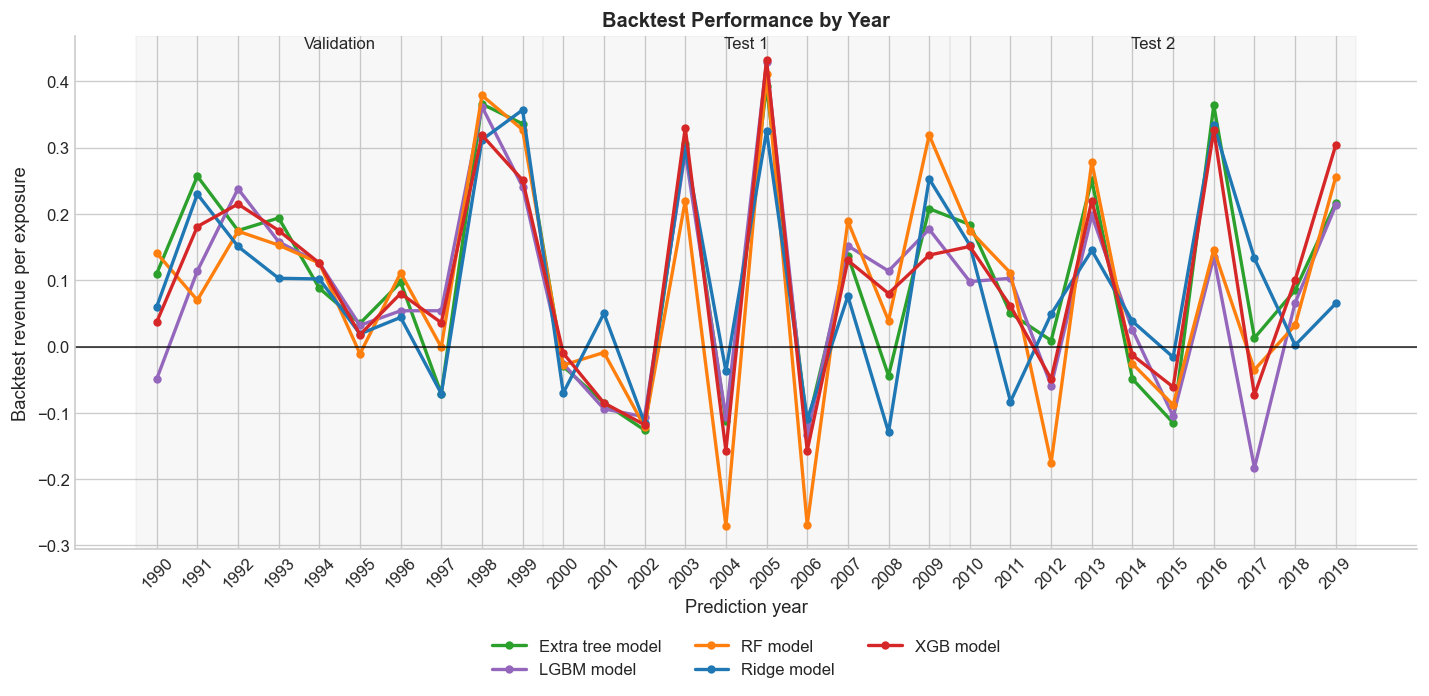
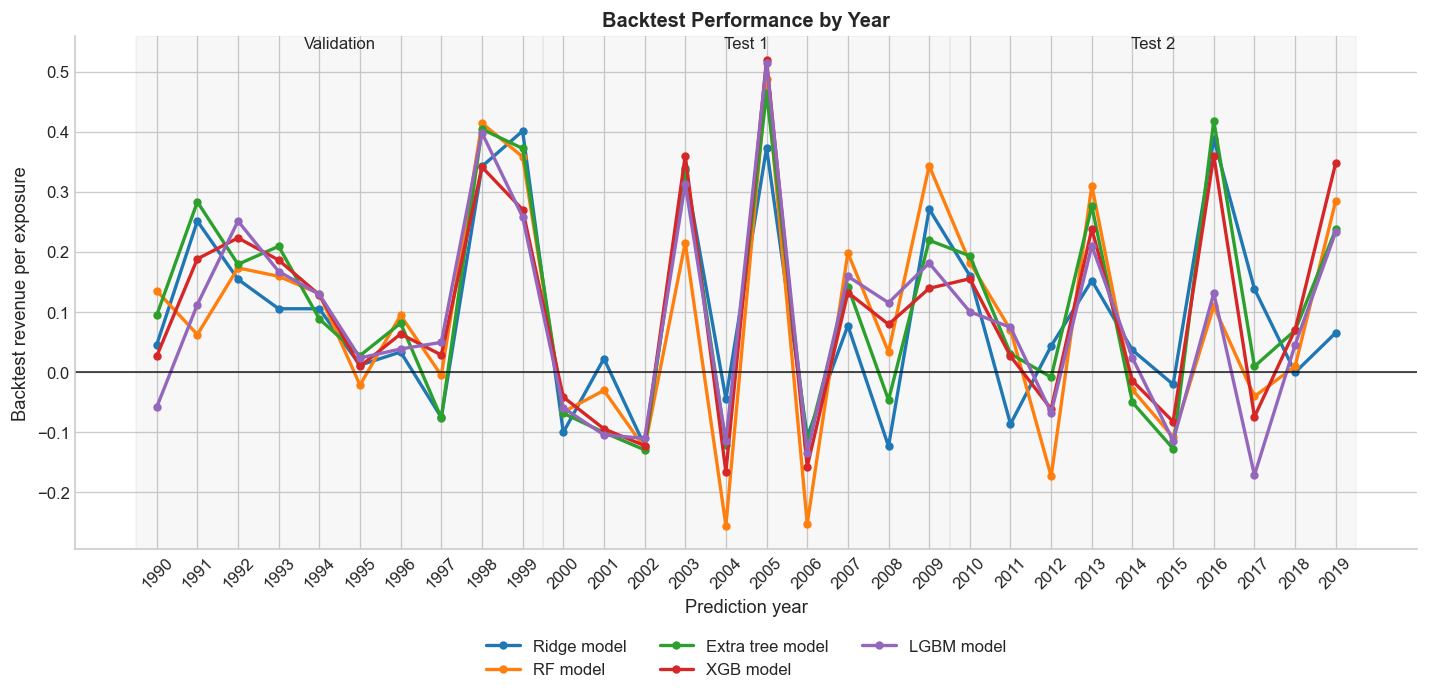
update backtest

diff --git a/scripts/run_model.py b/scripts/run_model.py
@@ -29,7 +29,7 @@ def run_model(Models,Simulation_start_date,Simulation_end_date, train_years = 20
                 valid_years = 1,
                 step_years = 1,max_steps = 50 ,print_years=False ):
 
-
+    #print(Models.keys())
 
     Periods= get_periods(Simulation_start_date,Simulation_end_date, train_years = train_years, valid_years = valid_years, step_years = step_years)
 
@@ -87,7 +87,8 @@ def run_model(Models,Simulation_start_date,Simulation_end_date, train_years = 20
                 montly_revenue_df.loc[month,name]=revenue
 
 
-        ydf= montly_revenue_df.sum(axis=0).to_frame().T
+        #ydf= montly_revenue_df.sum(axis=0).to_frame().T
+        ydf=((1 + montly_revenue_df).prod(axis=0) - 1).to_frame().T
         ydf.index = [year]
         Yearly_revenue=pd.concat([Yearly_revenue, ydf], axis=0)
 
@@ -130,7 +131,7 @@ if __name__ == "__main__":
     Yearly_revenue_valid=valid_run['Yearly_revenue']
 
 
-    test1_run=run_model(Models,"1980-01-31","2009-12-31",train_years = 20, valid_years = 1,step_years = 1 ,max_steps = 10,print_years=True)
+    test1_run=run_model(Models,"1980-01-31","2009-12-31",train_years = 20, valid_years = 1,step_years = 1 ,max_steps =10,print_years=True)
     print('First test run finished')
     eval_summary_test1=test1_run['eval_summary']
     eval_mean_test1=test1_run['eval_stat']
@@ -147,31 +148,33 @@ if __name__ == "__main__":
     path_eval = Path(dir_eval)
     path_eval.mkdir(parents=True, exist_ok=True)
 
-    evaluation = pd.DataFrame({
+    prediction_decade = pd.DataFrame({
         '1990-1999': eval_mean_valid.iloc[0],
         '2000-2009': eval_mean_test1.iloc[0],
         '2010-2019': eval_mean_test2.iloc[0],
     }).T
+    prediction_decade=prediction_decade.loc[:,Models.keys()]
+    prediction_decade.to_csv(path_eval / 'prediction_decade.csv')
 
-    evaluation.to_csv(path_eval / 'prediction_decade.csv')
-
-    Yearly_revenue_valid.sum()
-
-    revenue_periods= pd.DataFrame({
-        '1990-1999': (Yearly_revenue_valid.sum()/10).round(3),
-        '2000-2009': (Yearly_revenue_test1.sum()/10).round(3),
-        '2010-2019': (Yearly_revenue_test2.sum()/10).round(3),
+    backtest_decade= pd.DataFrame({
+        "1990-1999": ((1 + Yearly_revenue_valid).prod(axis=0) ** (1 / 10) - 1).round(3),
+        "2000-2009": ((1 + Yearly_revenue_test1).prod(axis=0) ** (1 / 10) - 1).round(3),
+        "2010-2019": ((1 + Yearly_revenue_test2).prod(axis=0) ** (1 / 10) - 1).round(3),
     }).T
-    revenue_AllYears = pd.concat([Yearly_revenue_valid,Yearly_revenue_test1,Yearly_revenue_test2], axis=0).round(3)
-    #print(revenue_periods)
-    #print(revenue_AllYears)
+    ''''1990-1999': ((1 + Yearly_revenue_valid).prod(axis=0) **(1/10)- 1).to_frame().T,# (Yearly_revenue_valid.sum()/10).round(3),
+            '2000-2009': ((1 + Yearly_revenue_test1).prod(axis=0) **(1/10)- 1).to_frame().T, #(Yearly_revenue_test1.sum()/10).round(3),
+            '2010-2019': ((1 + Yearly_revenue_test2).prod(axis=0) **(1/10)- 1).to_frame().T# (Yearly_revenue_test2.sum()/10).round(3),'''
+    backtest_decade=backtest_decade.loc[:,Models.keys()]
+    backtest_decade.to_csv(path_eval / 'backtest_decade.csv')
 
-    revenue_periods.to_csv(path_eval / 'backtest_decade.csv')
-    revenue_AllYears.to_csv(path_eval / 'backtest_yearly.csv')
+
+    backtest_yearly = pd.concat([Yearly_revenue_valid,Yearly_revenue_test1,Yearly_revenue_test2], axis=0).round(3)
+    backtest_yearly=backtest_yearly.loc[:,Models.keys()]
+    backtest_yearly.to_csv(path_eval / 'backtest_yearly.csv')
 
 
     prediction_yearly= pd.concat([eval_summary_valid, eval_summary_test1, eval_summary_test2], axis=0).round(3)
-
+    prediction_yearly = prediction_yearly.loc[:, Models.keys()]
     prediction_yearly.to_csv(path_eval / 'prediction_yearly.csv')
 
 

diff --git a/src/portfolio.py b/src/portfolio.py
@@ -13,7 +13,7 @@ class Portfolio:
     short: pd.DataFrame
 
 def uniform_25(y_pred_month):
-    n = int(len(y_pred_month) / 10)
+    n = int(len(y_pred_month) / 4)
     long = y_pred_month.tail(n)
     short = y_pred_month.head(n)
     long['weight'] = 1 / n

diff --git a/README.md b/README.md
@@ -26,8 +26,10 @@ The evaluation is based on out-of-sample metrics that compare model forecasts ag
 - 2000-2009: first test period, covering the dot-com crash and global financial crisis
 - 2010-2019: second test period, covering the post-crisis decade
 
-| Period | Extra Trees model | LGBM model | RF model | Ridge model | XGB model |
-|--------| ---: | ---: | ---: | ---: | ---: |
+For each period we calculate the 
+
+| Period   | Extra Trees model | LGBM model | RF model | Ridge model | XGB model |
+|----------| ---: | ---: | ---: | ---: | ---: |
 | 1990-1999 | 0.037 | 0.038 | 0.029 | 0.034 | 0.038 |
 | 2000-2009 | -0.015 | -0.013 | -0.022 | -0.01 | -0.01 |
 | 2010-2019 | 0.044 | 0.04 | 0.041 | 0.033 | 0.042 |